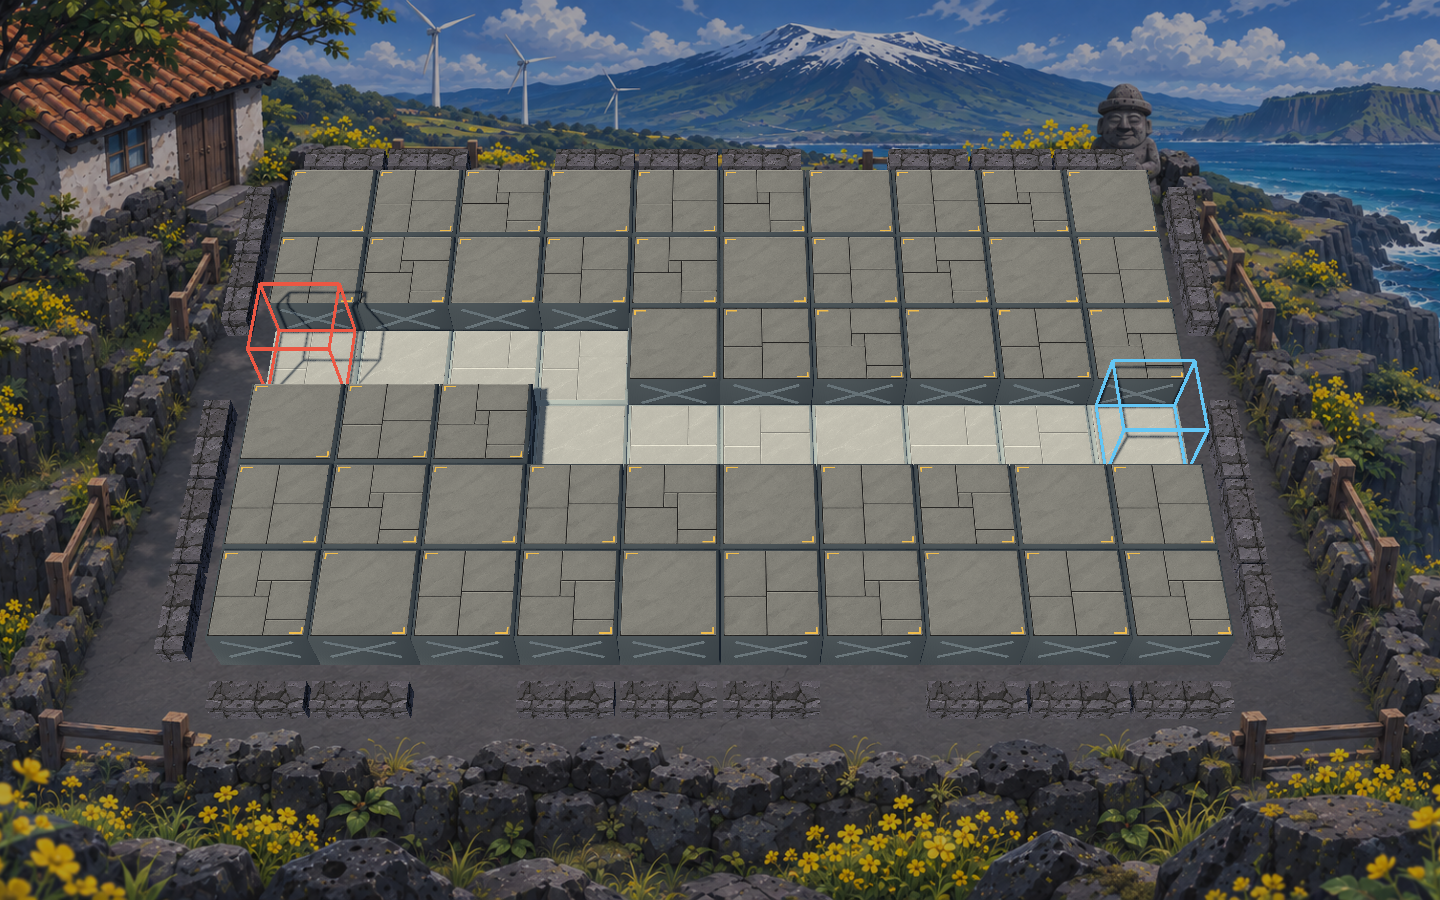
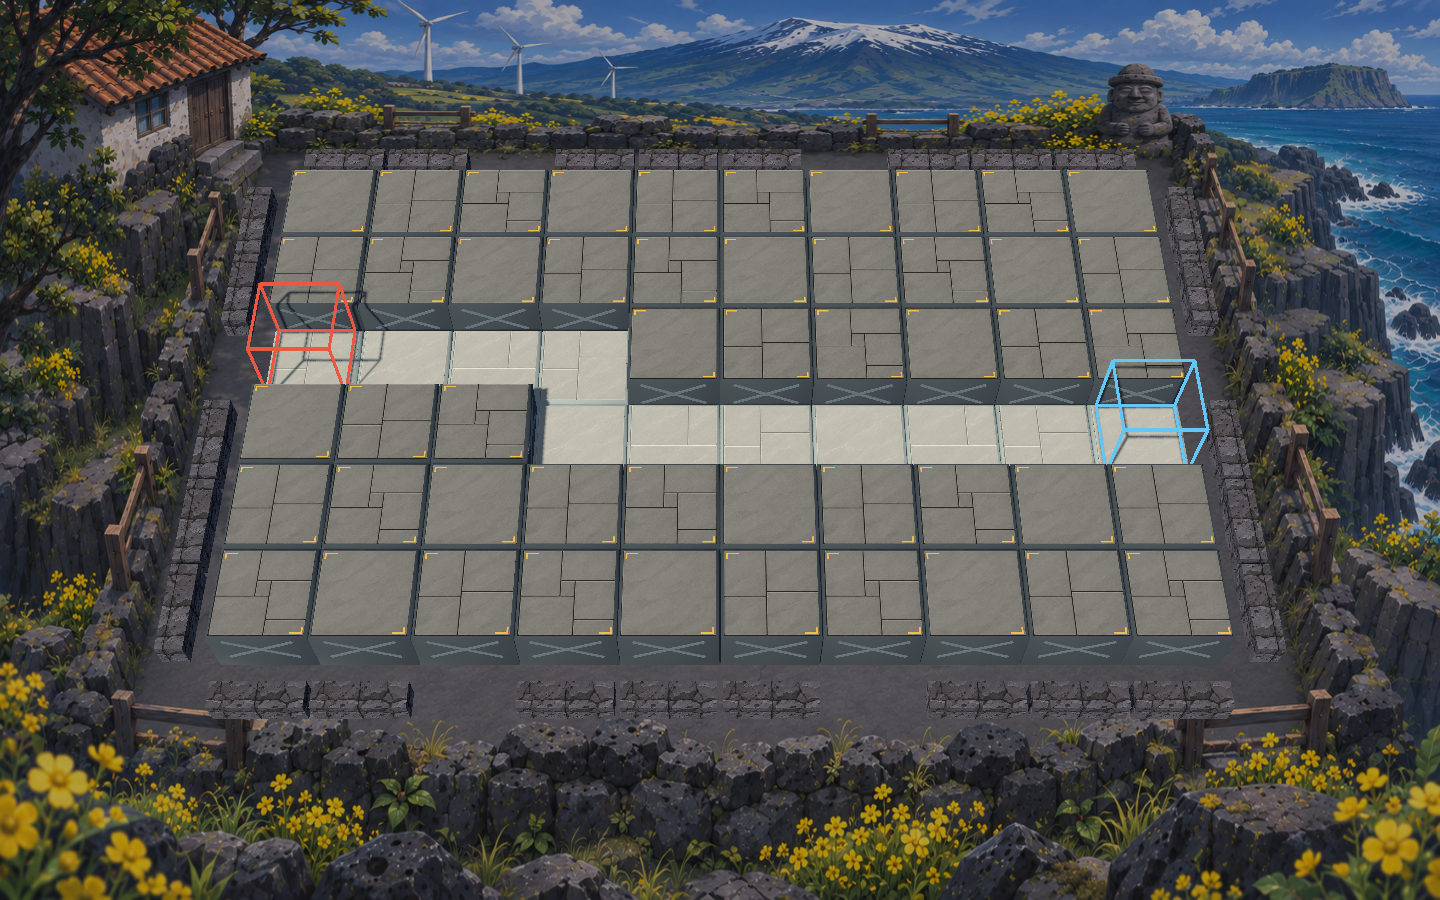
fix(chapter2): align backdrop with battle camera

diff --git a/content/campaign/README.md b/content/campaign/README.md
@@ -94,3 +94,4 @@ $env:APPDATA = Join-Path $PWD 'temp/chapter_one/user'
 
 - 城市地形图集 terrain_003：地图的 Terrain 使用 `content/terrains/terrain_003/tileset.tres`，同时将 `terrain_atlas` 指向同目录 `atlas.png`。图集和编辑器面板均由 `Human/StarterContent/terrain/terrain_markers_v3.png` 整图缩放，保留原图全部 16 格。按行依次为普通高台、普通地面、特殊高台、特殊地面；前两行各为可部署三格、不可部署一格。特殊格目前只有对应地面／高台的部署与通行规则，图案不产生战斗效果。第一章战斗地图和开发样例均使用此图集。
 - 第二章三张地图共用 `content/terrains/terrain_004/tileset.tres`、`atlas.png` 与 `backdrop.png`；每张地图独立配置地块和路线。图集保留相同 16 格含义和部署规则，图案本身不增加战斗效果。
+- `backdrop_edges` 可将背景围边对齐战场相机。四个值依次为背景中庭院左后角、左前角的归一化坐标，右侧按中线对称。默认值沿用居中裁切。
